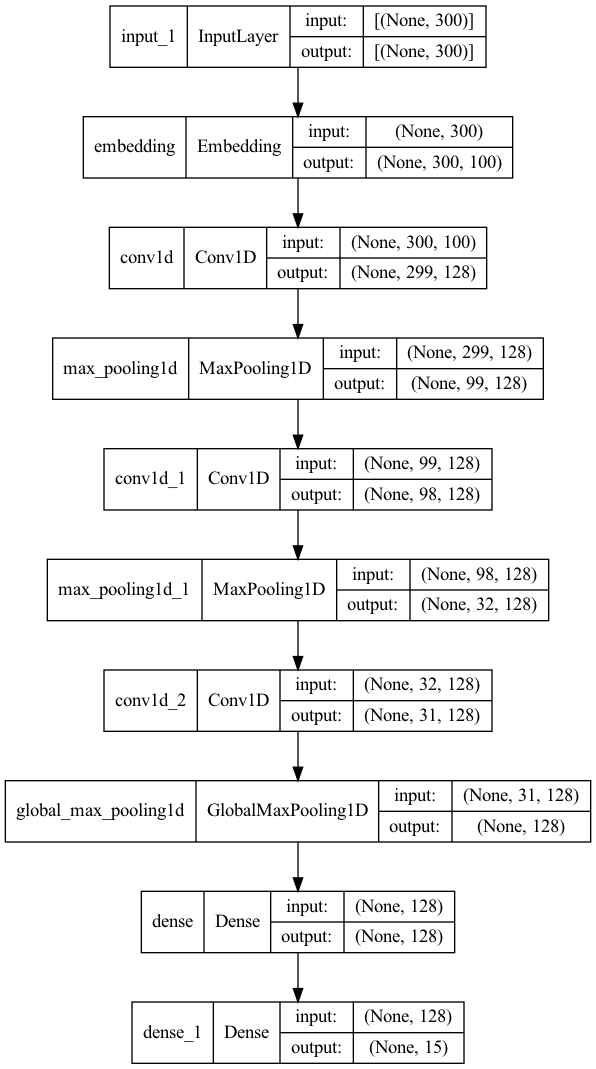
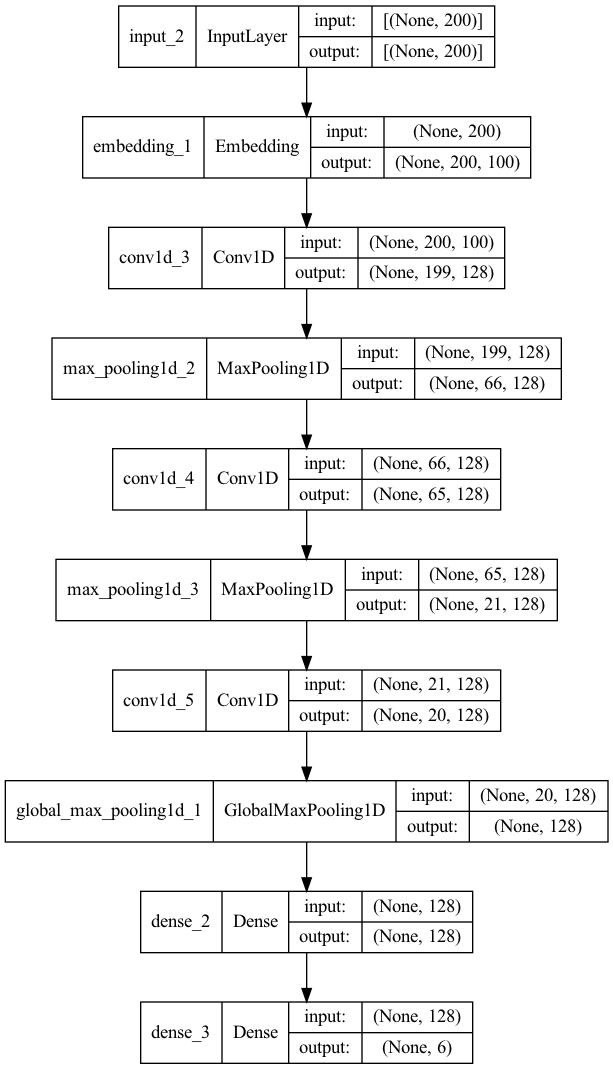
process new data

diff --git a/preprocessing.py b/preprocessing.py
@@ -6,6 +6,7 @@ from sklearn.model_selection import train_test_split
 from nltk.tokenize import word_tokenize
 from nltk.corpus import stopwords
 import re
+import random
 
 
 class Preprocessing:
@@ -31,7 +32,9 @@ class Preprocessing:
         df = pd.DataFrame(articles, index=['target', 'text']).T
         self.texts = df['text'].values
         self.targets = df['target'].values
-        zipped = zip(self.texts, self.targets)
+
+        zipped = list(zip(self.texts, self.targets))
+        random.shuffle(zipped)
         zipped = filter(lambda item: item[0] != '\n', zipped)
         self.texts, self.targets = map(np.array, zip(*zipped))
 

diff --git a/process.py b/process.py
@@ -11,12 +11,12 @@ from sklearn.metrics import roc_auc_score
 from preprocessing import Preprocessing
 from keras.utils.vis_utils import plot_model
 
-MAX_SEQUENCE_LENGTH = 300
+MAX_SEQUENCE_LENGTH = 200
 MAX_VOCAB_SIZE = 30000
 EMBEDDING_DIM = 100
 VALIDATION_SPLIT = 0.2
 BATCH_SIZE = 100
-EPOCHS = 100
+EPOCHS = 20
 
 word2vec = {}
 with open(os.path.join('vectors/pl-embeddings-cbow.txt')) as f:
@@ -32,7 +32,7 @@ print('Found %s word vectors.' % len(word2vec))
 pr = Preprocessing()
 pr.load_data()
 pr.clean_text()
-pr.remove_stops()
+#pr.remove_stops()
 
 targets = pr.targets
 texts = pr.texts

diff --git a/predict.py b/predict.py
@@ -3,8 +3,8 @@ from keras.models import load_model
 from keras.preprocessing.text import Tokenizer
 from keras.preprocessing.sequence import pad_sequences
 
-MAX_VOCAB_SIZE = 20000
-MAX_SEQUENCE_LENGTH = 100
+MAX_VOCAB_SIZE = 30000
+MAX_SEQUENCE_LENGTH = 200
 
 
 def main():
